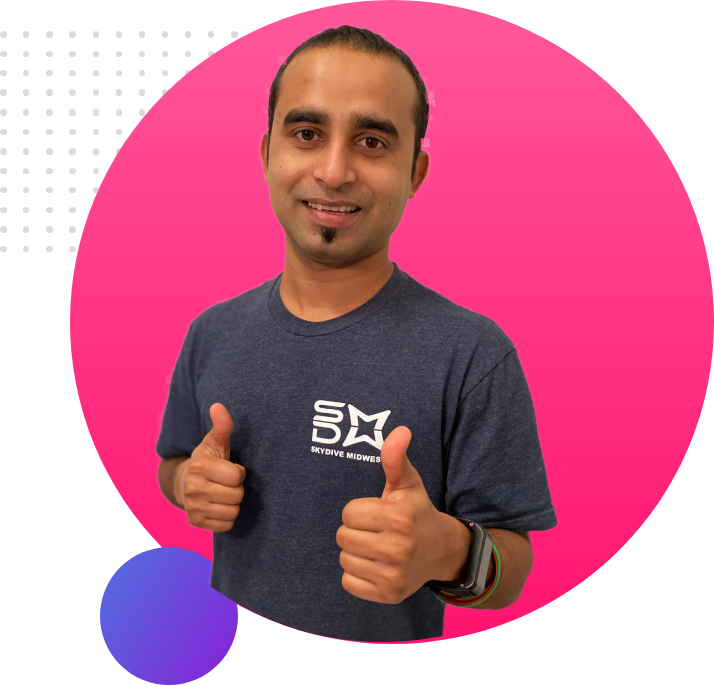
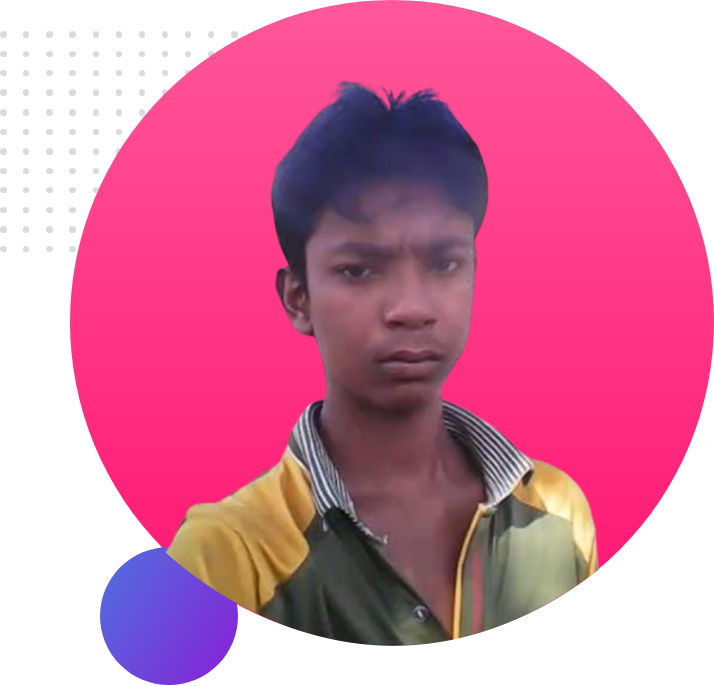
initial commit

diff --git a/index.html b/index.html
@@ -1,0 +1,82 @@
+<!DOCTYPE html>
+<html lang="en">
+
+<head>
+    <meta charset="UTF-8">
+    <meta http-equiv="X-UA-Compatible" content="IE=edge">
+    <meta name="viewport" content="width=device-width, initial-scale=1.0">
+    <title>Peter Parker</title>
+    <link rel="stylesheet" href="style.css">
+</head>
+
+<body>
+    <section class="secOne">
+        <div class="separator">
+            <h1>Welcome To</h1>
+            <h1><span class="name">Peter Parker </span> World</h1>
+
+            <span>Build Climber and Train Stopper</span>
+
+
+            <p>You might saw me jumping, climbing buildings, and stopping trains. But nobody pays me a dime for that
+                work. That's why I am learning and mastering web development. I will not stop until I become the Web
+                Development Hero.</p>
+
+            <a href="#">HIRE ME</a>
+        </div>
+
+        <div class="separator">
+            <img src="./images/people1.png" alt="image">
+        </div>
+    </section>
+
+    <section class="secTwo">
+        <div class="separator">
+            <img src="./images/people.png" alt="image">
+        </div>
+        <div class="separator">
+            <h2>Dream Big</h2>
+            <span>Become a web developer</span>
+            <p>I already learned the basic HTML and CSS. I can build any simple website. I can even teach my grandma how
+                to make simple website. My goal is to build 3 websites and learn advanced topics.</p>
+
+            <a href="#">DOWNLOAD RESUME</a>
+        </div>
+    </section>
+
+    <section class="secThree">
+        <h2>Experiences</h2>
+        <div class="separator-wrapper separator-wrapper-one">
+            <div class="separator separator-one">
+
+            </div>
+            <div class="separator separator-one threep">
+                <div class="card">
+                    <h2>Full Stack Web Developer</h2>
+                    <span class="colored">2021-Present | Pro Level Developer</span>
+                    <p>I am the master of HTML, CSS and Javascript. I know everything needed to make a website function,
+                        efficient. I didn't stop with the web. I went beyond with most popular Javascript framework
+                        called Vue JS. I even know the deployment, server and security. I will give you 100% web
+                        solution.</p>
+                </div>
+            </div>
+        </div>
+        <div class="separator-wrapper separator-wrapper-two">
+            <div class="separator separator-two threep">
+                <div class="card">
+                    <h2>Full Stack Web Developer</h2>
+                    <span class="colored">2021-Present | Pro Level Developer</span>
+                    <p>I am the master of HTML, CSS and Javascript. I know everything needed to make a website function,
+                        efficient. I didn't stop with the web. I went beyond with most popular Javascript framework
+                        called Vue JS. I even know the deployment, server and security. I will give you 100% web
+                        solution.</p>
+                </div>
+            </div>
+            <div class="separator separator-two">
+                <p class="footer">© Peter Parker 2021, a Programming Hero initiative.</p>
+            </div>
+        </div>
+    </section>
+</body>
+
+</html>

diff --git a/style.css b/style.css
@@ -1,0 +1,138 @@
+@import url('https://fonts.googleapis.com/css2?family=Poppins:ital,wght@0,100;0,200;0,300;0,400;0,500;0,600;0,700;0,800;0,900;1,100;1,200;1,300;1,400;1,500;1,600;1,700;1,800;1,900&display=swap');
+
+
+* {
+    margin: 0;
+    padding: 0;
+    box-sizing: border-box;
+    font-family: 'Poppins',
+        sans-serif;
+
+}
+
+section {
+
+    display: flex;
+}
+
+.secOne {
+    background: url(./images/top-banner.png);
+    background-repeat: no-repeat;
+
+}
+
+.secTwo {
+    background: url(./images/dream-bg.png);
+    background-repeat: no-repeat;
+    background-position: right;
+}
+
+.secThree {
+    display: block;
+}
+
+
+
+h2 {
+    font-size: 40px;
+    font-weight: 600;
+}
+
+
+.separator {
+    width: 50%;
+    margin: 0% 7%;
+}
+
+.separator h1 {
+    margin-top: 30px;
+    font-size: 50px;
+    font-weight: 600;
+}
+
+.separator h1 span {
+    display: inline;
+    color: #ffa500;
+    font-size: 50px;
+    font-weight: 500;
+}
+
+.separator span {
+    margin-top: 50px;
+    display: block;
+    font-size: 19px;
+    font-weight: 600;
+}
+
+p {
+    margin: 20px 0px;
+    font-size: 16px;
+    font-weight: 400;
+    color: #696969;
+}
+
+a {
+    margin-top: 20px;
+    background: linear-gradient(45deg, lightsalmon, tomato);
+    padding: 10px 30px;
+    text-decoration: none;
+    font-weight: 600;
+    font-size: 16px;
+    color: #fff;
+    border-radius: 7px;
+}
+
+.separator img {
+    width: 100%;
+}
+
+.separator-wrapper {
+    margin-top: 50px;
+    display: flex;
+}
+
+
+.separator-wrapper-one .threep {
+    margin: 0% 7% 0% 0%;
+    border-left: 7px solid;
+    border-image: linear-gradient(180deg, lightsalmon, tomato);
+    border-image-slice: 1;
+}
+
+.separator-wrapper-two .threep {
+    margin: 0% 0% 0% 7%;
+    border-left: 7px solid;
+    border-image: linear-gradient(180deg, blue, cyan);
+    border-image-slice: 1;
+}
+
+
+.separator-wrapper-one {
+    background: url(./images/exp-bg.png);
+    background-repeat: no-repeat;
+}
+
+.card {
+    box-shadow: 5px 7px 40px grey;
+    padding: 45px 0px 55px 35px;
+    width: 100%;
+}
+
+.secThree .separator .card h2 {
+    text-align: left;
+    margin-bottom: -30px;
+    font-weight: 500;
+}
+
+.secThree h2 {
+    text-align: center;
+}
+
+.colored {
+    color: #ffa500;
+}
+
+.footer {
+    text-align: center;
+    margin-top: 120px;
+}
